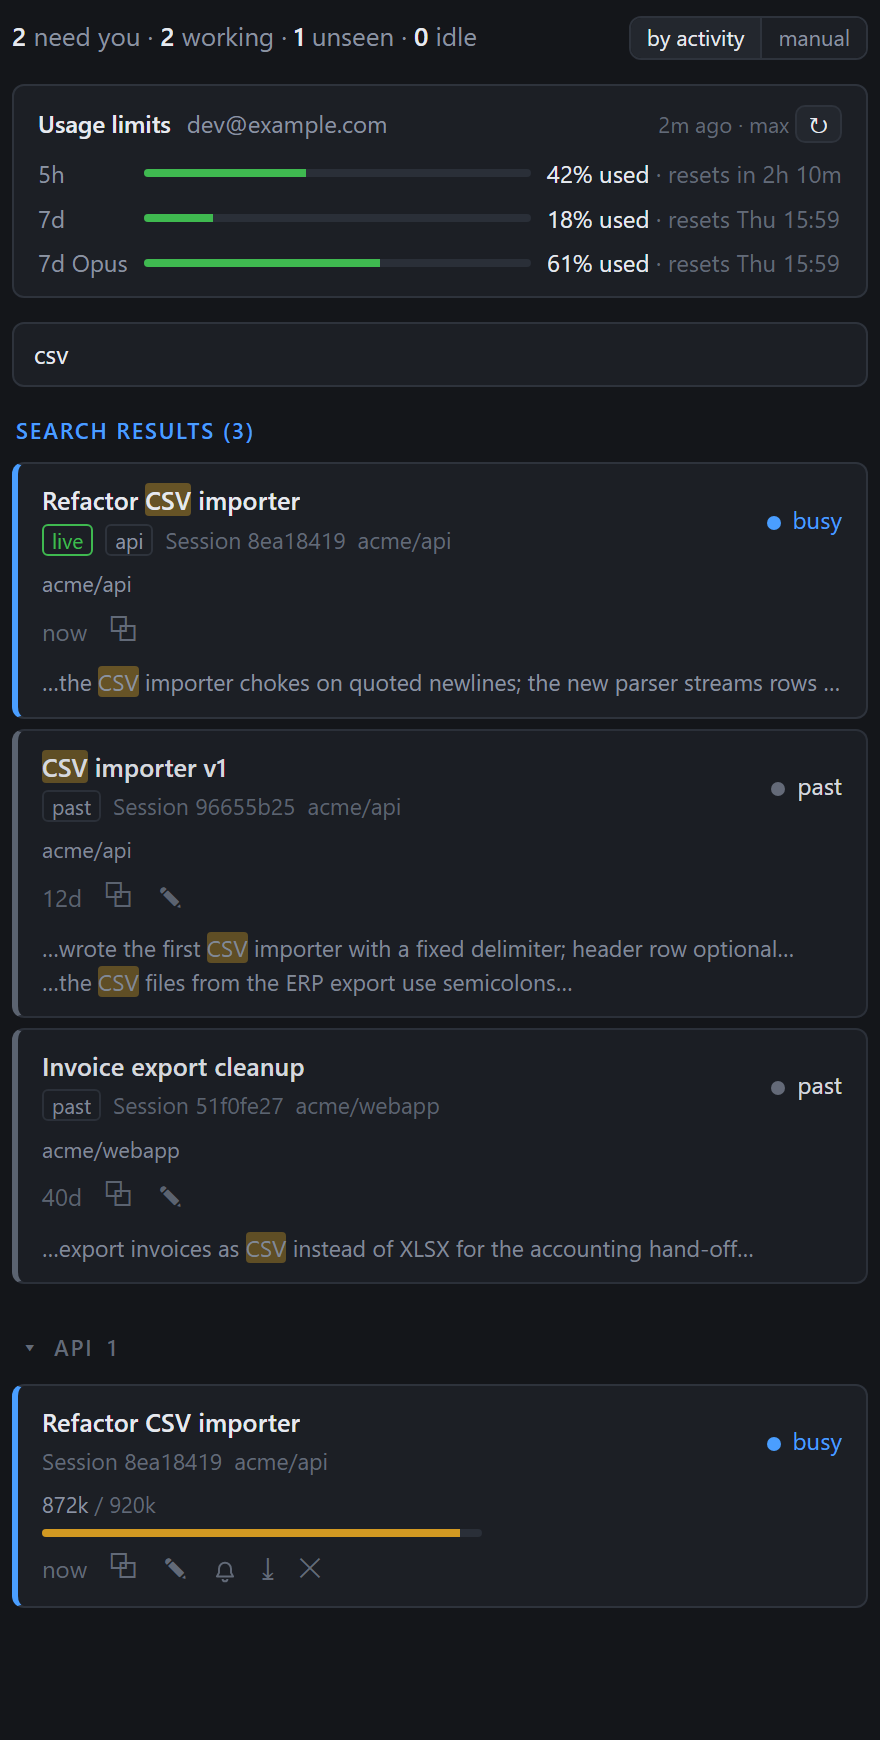
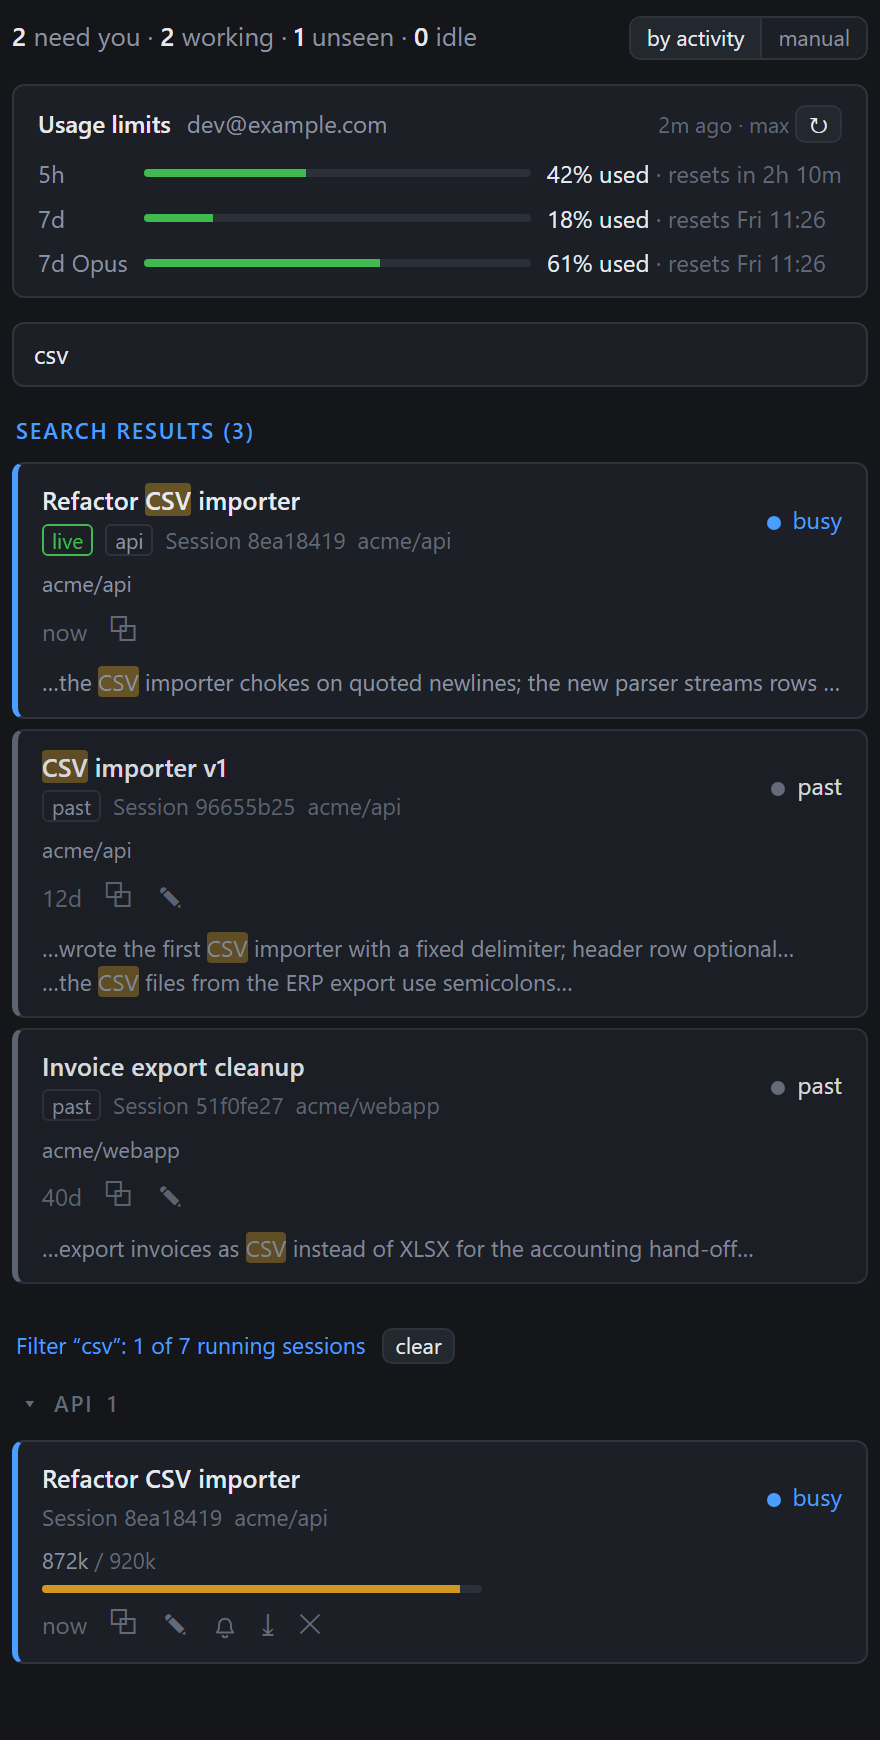
Session Board 0.11.1: every running session stays on the board
- The "Show N idle over 2h" fold is gone. A running session that is not archived stays
  in its window section however long it has been idle; archived ones (in Claude Code or
  with the board's archive) are still put away. Manual order sends the section's rows as
  one list.
- A typed filter says so: a line above the sections, "Filter "<text>": n of N running
  sessions", with a clear button that does what Esc does.
- The agent name other Claude sessions use for a session (cuvis-ai-6c) shows on the row
  when it differs from the title, and in the details line with a copy button.

diff --git a/extension/index.html b/extension/index.html
@@ -134,6 +134,9 @@
   .badge.unseen { background: color-mix(in srgb, var(--ok) 22%, var(--panel-2)); color: var(--ok); }
   .chip.here { color: var(--busy); border-color: var(--busy); text-transform: none; letter-spacing: 0; font-weight: 500; }
   .chip.muted { color: var(--faint); border-style: dotted; }
+  .filterline { color: var(--busy); font-size: 11.5px; margin: 0 2px 10px; }
+  .filterline button { margin-left: 8px; font-size: 11px; padding: 0 6px; }
+  .row .agent { color: var(--dim); margin-right: 6px; }
   .row.muted .main, .row.muted .status { opacity: .6; }   /* silent and uncounted, still in its place */
   .subhead {
     display: flex; align-items: center; gap: 7px; margin: 10px 0 6px 2px;
@@ -249,6 +252,7 @@
   </div>
 
   <div class="group results" id="g-results" style="display:none"><h2 id="h-results">Search results</h2><div id="l-results"></div></div>
+  <div class="filterline" id="filterline" style="display:none"></div>
   <div id="sections"></div>
   <div class="group" id="g-archived" style="display:none"><h2>Archived</h2><div id="l-archived"></div></div>
 </div>
@@ -267,7 +271,6 @@ var tokenMeta = document.querySelector('meta[name="board-token"]');
 var TOKEN = tokenMeta ? tokenMeta.getAttribute('content') : '';
 
 var POLL_MS = 4000;
-var IDLE_HIDE_MINUTES = 120;
 var CONFIRM_MS = 3000;
 var MUTE_PENDING_MS = 10000;    // the bell keeps the flag it was clicked to until a snapshot agrees, at most this long
 var ORDER_PENDING_MS = 10000;   // a move or a mode switch holds its result until a snapshot agrees, at most this long
@@ -275,7 +278,6 @@ var ORDER_QUERY_MAX = 8000;     // the browser route's cap on the comma-joined i
 
 var state = {
   data: null,
-  showStale: Object.create(null),           // section key -> true while its "Show N idle over 2h" is open
   showArchived: false,                      // "Show N archived" toggle
   folded: Object.create(null),              // section key -> folded; a section starts open
   pendingMute: Object.create(null),         // sessionId -> { muted, until } from the bell until a snapshot agrees
@@ -536,6 +538,7 @@ function detailsHtml(s, opts) {
   if (!state.details[s.sessionId]) return '';
   var copy = function (v, what) { return '<button class="iconbtn copyval" data-act="copyval" data-copy="' + esc(v) + '" title="copy the ' + what + '">⧉</button>'; };
   var lines = ['<div><span class="k">id</span>' + esc(s.sessionId) + copy(s.sessionId, 'session id') + '</div>'];
+  if (s.name && s.name !== String(s.sessionId).slice(0, 8)) lines.push('<div><span class="k">agent</span>' + esc(s.name) + copy(s.name, 'agent name') + '</div>');
   var started = fmtStarted(s.startedAt);
   var facts = [];
   if (started) facts.push('<span class="k">started</span>' + esc(started));
@@ -598,7 +601,8 @@ function rowHtml(s, limits, opts) {
   else if (by === 'board') chips += '<span class="chip archived" title="archived on the board; ⤒ or a click brings it back">archived</span>';
   if (opts.past && s.window) chips += '<span class="chip" title="VS Code window ' + esc(s.window.id) + '">' + esc(s.window.label || ('window ' + s.window.id)) + '</span>';   // live rows sit in their window's section
   if (!opts.past && isMuted(s)) chips += '<span class="chip muted" title="muted: no notifications, not counted">muted</span>';
-  var sub = chips + '<button class="sid" data-act="details" title="' + esc(s.sessionId) + ' (click for details)">Session ' + esc(String(s.sessionId).slice(0, 8)) + '</button>' + esc(shortCwd(s.cwd));   // one name per row: the heading; the agent name lives in the tooltip
+  var agent = s.name && s.name !== s.title && s.name !== String(s.sessionId).slice(0, 8) ? '<span class="agent" title="the agent name other Claude sessions use for this one">' + esc(s.name) + '</span>' : '';
+  var sub = chips + agent + '<button class="sid" data-act="details" title="' + esc(s.sessionId) + ' (click for details)">Session ' + esc(String(s.sessionId).slice(0, 8)) + '</button>' + esc(shortCwd(s.cwd));   // one name per row: the heading; the agent name lives in the tooltip
   if (pe && pe.kind === 'error') sub = '<span style="color:var(--crit)">' + esc(pe.message || 'failed') + '</span> · ' + sub;
 
   var hint = !isLive ? 'click: resume this session (in this window when its folder is open here)'
@@ -898,19 +902,18 @@ function renderSwitch(data) {
  *    ──▶ render at once (rankOf answers from the pending list) ──▶ host or POST /api/order?ids=
  *    result ok ──▶ the entry stays until a snapshot agrees (every rank equals its index) or the 10 s pass
  *    result not ok ──▶ the entry goes, the rows return, the notice line says why
- * The list is the whole group: the shown rows in their new order, then the folded stale rows as they are, so a
- * ranked stale row never surfaces on top when the fold opens. Manual mode only, and never under a typed filter
+ * The list is the whole group, every row in its new order. Manual mode only, and never under a typed filter
  * (the list must be the whole group).
  */
 function canMove() { return currentMode() === 'manual' && !state.filter; }
 
-/** The ids of a group as the page shows them: `shown` in display order and `hidden` (stale rows behind the fold). */
+/** The ids of a group in display order, or null for an unknown group. */
 function groupLists(key) {
   var g = groupSessions((state.data && state.data.sessions) || [], state.data ? state.data.thisWindowId : null);
   var ids = function (list) { return list.map(function (s) { return s.sessionId; }); };
   for (var i = 0; i < g.sections.length; i++) {
     var sec = g.sections[i];
-    if (sec.key === key) return { shown: ids(sec.shown), hidden: ids(sec.rows.filter(function (s) { return sec.shown.indexOf(s) === -1; })) };
+    if (sec.key === key) return ids(sec.rows);
   }
   return null;
 }
@@ -942,25 +945,25 @@ function groupKeyOf(sid) { var s = rowById(sid); return s ? groupKey(s) : null; 
 function applyDrop(sid, targetSid, before) {
   var key = groupKeyOf(sid);
   if (!key || sid === targetSid || key !== groupKeyOf(targetSid)) return false;
-  var lists = groupLists(key);
-  if (!lists) return false;
-  var shown = lists.shown.filter(function (id) { return id !== sid; });
+  var list = groupLists(key);
+  if (!list) return false;
+  var shown = list.filter(function (id) { return id !== sid; });
   var at = shown.indexOf(targetSid);
   if (at === -1) return false;
   shown.splice(before ? at : at + 1, 0, sid);
-  return applyOrder(key, shown.concat(lists.hidden));
+  return applyOrder(key, shown);
 }
 
-/** Alt+Up / Alt+Down: swap the row with its neighbour among the shown rows of its group; the ends are no-ops. */
+/** Alt+Up / Alt+Down: swap the row with its neighbour in its group; the ends are no-ops. */
 function moveByOne(sid, delta) {
   var key = groupKeyOf(sid);
-  var lists = key ? groupLists(key) : null;
-  if (!lists) return false;
-  var shown = lists.shown.slice();
+  var list = key ? groupLists(key) : null;
+  if (!list) return false;
+  var shown = list.slice();
   var i = shown.indexOf(sid), j = i + delta;
   if (i === -1 || j < 0 || j >= shown.length) return false;
   shown[i] = shown[j]; shown[j] = sid;
-  return applyOrder(key, shown.concat(lists.hidden));
+  return applyOrder(key, shown);
 }
 
 function refocus(sid) { var el = document.querySelector('.row[data-session="' + sid + '"]'); if (el && el.focus) el.focus(); }
@@ -984,14 +987,14 @@ function rowById(sid) {
 }
 
 function onRowClick(ev) {
-  var ctl = ev.target.closest ? ev.target.closest('button[data-act="fold"], button[data-act="stale"], button[data-act="archived"], button[data-act="mode"]') : null;
+  var ctl = ev.target.closest ? ev.target.closest('button[data-act="fold"], button[data-act="archived"], button[data-act="mode"], button[data-act="clearfilter"]') : null;
   if (ctl) {                                               // section controls live outside the rows
     ev.stopPropagation();
     var key = ctl.getAttribute('data-section');
     var ctlAct = ctl.getAttribute('data-act');
     if (ctlAct === 'mode') { applyMode(ctl.getAttribute('data-mode')); return; }
+    if (ctlAct === 'clearfilter') { clearSearch(); return; }
     if (ctlAct === 'fold') state.folded[key] = !isFolded(key);
-    else if (ctlAct === 'stale') state.showStale[key] = !state.showStale[key];
     else state.showArchived = !state.showArchived;
     render();
     return;
@@ -1061,7 +1064,6 @@ function byAge(a, b) { return (a.ageMinutes == null ? 1e9 : a.ageMinutes) - (b.a
 function statusRank(s) { return s.status === 'waiting' ? 0 : s.status === 'busy' ? 1 : s.unseen ? 2 : 3; }
 function sectionKey(s) { return s.window ? 'w' + s.window.id : 'none'; }
 function sectionLabel(s) { return s.window ? (s.window.label || ('window ' + s.window.id)) : 'Elsewhere'; }
-function isStale(s) { return statusRank(s) === 3 && !(s.ageMinutes != null && s.ageMinutes < IDLE_HIDE_MINUTES); }
 /** The row's mute flag as the page shows it: a fresh click on the bell wins over the last snapshot. */
 function isMuted(s) { var p = state.pendingMute[s.sessionId]; return p && p.until > Date.now() ? p.muted : Boolean(s.muted); }
 
@@ -1117,8 +1119,6 @@ function groupSessions(rows, thisWindowId) {
   var finish = function (sec) {
     sec.rows.sort(rowOrder);
     Object.assign(sec, counts(sec.rows));
-    sec.stale = filter ? [] : sec.rows.filter(isStale);
-    sec.shown = state.showStale[sec.key] ? sec.rows : sec.rows.filter(function (s) { return sec.stale.indexOf(s) === -1; });
     return sec;
   };
   var sections = Object.keys(byKey).map(function (k) { return finish(byKey[k]); }).sort(function (a, b) {
@@ -1152,8 +1152,7 @@ function sectionHead(sec, label, count, thisWindow) {
 function sectionHtml(sec, limits) {
   var folded = isFolded(sec.key) && !state.filter;
   var cls = 'group section' + (folded ? ' folded' : '') + (sec.waiting ? ' waiting' : sec.unseen ? ' unseen' : '') + (sec.thisWindow ? ' here' : '');
-  var body = sec.shown.map(function (s) { return rowHtml(s, limits); }).join('');
-  if (sec.stale.length) body += '<div class="empty"><button data-act="stale" data-section="' + esc(sec.key) + '">' + (state.showStale[sec.key] ? 'Hide' : 'Show') + ' ' + sec.stale.length + ' idle over 2h</button></div>';
+  var body = sec.rows.map(function (s) { return rowHtml(s, limits); }).join('');   // every running row that is not archived, idle or not
   return '<div class="' + cls + '" data-section="' + esc(sec.key) + '">' + sectionHead(sec, sec.label, sec.rows.length, sec.thisWindow) + '<div class="section-body">' + body + '</div></div>';
 }
 
@@ -1162,6 +1161,15 @@ function render() {
   var data = state.data;
   var limits = (data && data.limits) || { compact: null, save: null };
   var all = (data && data.sessions) || [];
+
+  // a typed filter hides rows; say so, with the count and a way out
+  var fl = document.getElementById('filterline');
+  if (state.filter) {
+    var matched = all.filter(function (s) { var pe = state.pendingEnd[s.sessionId]; return matchesFilter(s) && !(pe && pe.kind === 'ended'); }).length;
+    fl.innerHTML = 'Filter “' + esc(state.filter) + '”: ' + matched + ' of ' + all.length + ' running session' + (all.length === 1 ? '' : 's')
+      + '<button data-act="clearfilter" title="clear the filter (Esc)">clear</button>';
+    fl.style.display = '';
+  } else { fl.style.display = 'none'; fl.innerHTML = ''; }
 
   // search results block
   var gr = document.getElementById('g-results');

diff --git a/extension/README.md b/extension/README.md
@@ -31,16 +31,20 @@ Anthropic; it reads the local files and CLI output that Claude Code leaves on yo
   under **Elsewhere**. Inside a section the rows sort by what they need from you: waiting
   (`permission prompt`, `input needed`, `dialog open`), then working, then unseen (the
   answer ended while the board was running and you have not opened the session since;
-  opening it or sending a new prompt clears it), then idle. Idle rows over 2 h fold behind a
-  toggle per section, and a click on the heading folds the whole section.
+  opening it or sending a new prompt clears it), then idle. Every running session that is not
+  archived stays in its section, however long it has been idle; a click on the heading folds
+  the whole section.
+- **A typed filter says so**: while the search box holds text, a line above the sections reads
+  `Filter "cuvis-ai-6c": 1 of 17 running sessions`, with a clear button (Esc does the same).
 - **The number on a heading** counts the sessions in that section that wait for you (amber)
   or are unseen (green). It goes down as you answer or open them.
 - Each row: the session's title (Claude Code's: a rename wins over the generated title; a
   session with neither shows its last prompt), "Session" and the first 8 characters of its
-  id, its folder, status, a context bar, and time in that state. Hover for the folder and the
-  internal agent name. A click on the id folds out a details line: the full id, when the
-  session started, its process, its window and its transcript path; ⧉ copies the id or the
-  path. Search finds a session by its id, typed bare or as Claude Code shows it
+  id, its folder, status, a context bar, and time in that state. When the session's agent
+  name (the one other Claude sessions use for it, such as `cuvis-ai-6c`) differs from its
+  title, it shows before the id. A click on the id folds out a details line: the full id, the
+  agent name, when the session started, its process, its window and its transcript path; ⧉
+  copies the id, the name or the path. Search finds a session by its id, typed bare or as Claude Code shows it
   (`Session f8005c0d`).
 - **Muted**: a muted session stays in its place in its window section, marked "muted" and
   dimmed, waiting or not. It raises no toast and no notification and counts nowhere: not on

diff --git a/extension/CHANGELOG.md b/extension/CHANGELOG.md
@@ -1,5 +1,11 @@
 # Changelog
 
+## 0.11.1
+
+- Every running session that is not archived stays on the board: the "Show N idle over 2h" fold is gone, so sessions idle for hours or days sit in their window section like the rest. Archived sessions (in Claude Code or with ⤓) are still put away
+- A typed filter says so: a line above the sections reads `Filter "<text>": n of N running sessions`, with a clear button
+- Rows show the agent name other Claude sessions use for a session (`cuvis-ai-6c`) when it differs from the title, and the details line carries it with a copy button
+
 ## 0.11.0
 
 - The board tells you when a session finishes its answer: the focused VS Code window shows a toast "<title>: done" with an Open button, next to the existing toast for a session that starts waiting

diff --git a/DEVELOPMENT.md b/DEVELOPMENT.md
@@ -300,7 +300,7 @@ real `claude` call; new page behaviour gets a scripted snapshot in the page suit
   by `rank` (a row without one sits on top, newest first); by activity it is waiting,
   busy, unseen, idle, then age. A move (the ⋮⋮ handle, HTML5 drag and drop on the handle
   only, or Alt+Up/Down on the focused row) ends in `applyOrder(key, ids)`: the whole group's
-  ids (the shown rows in their new order, then the folded stale rows), held in
+  ids in their new order, held in
   `state.pendingOrder[key]` until a snapshot agrees or 10 s pass, sent as `order` to the host
   or `POST /api/order?ids=` (comma-joined, 8000 characters at most; core caps the list at
   500). `setOrder()` checks every id before the first write, then writes
